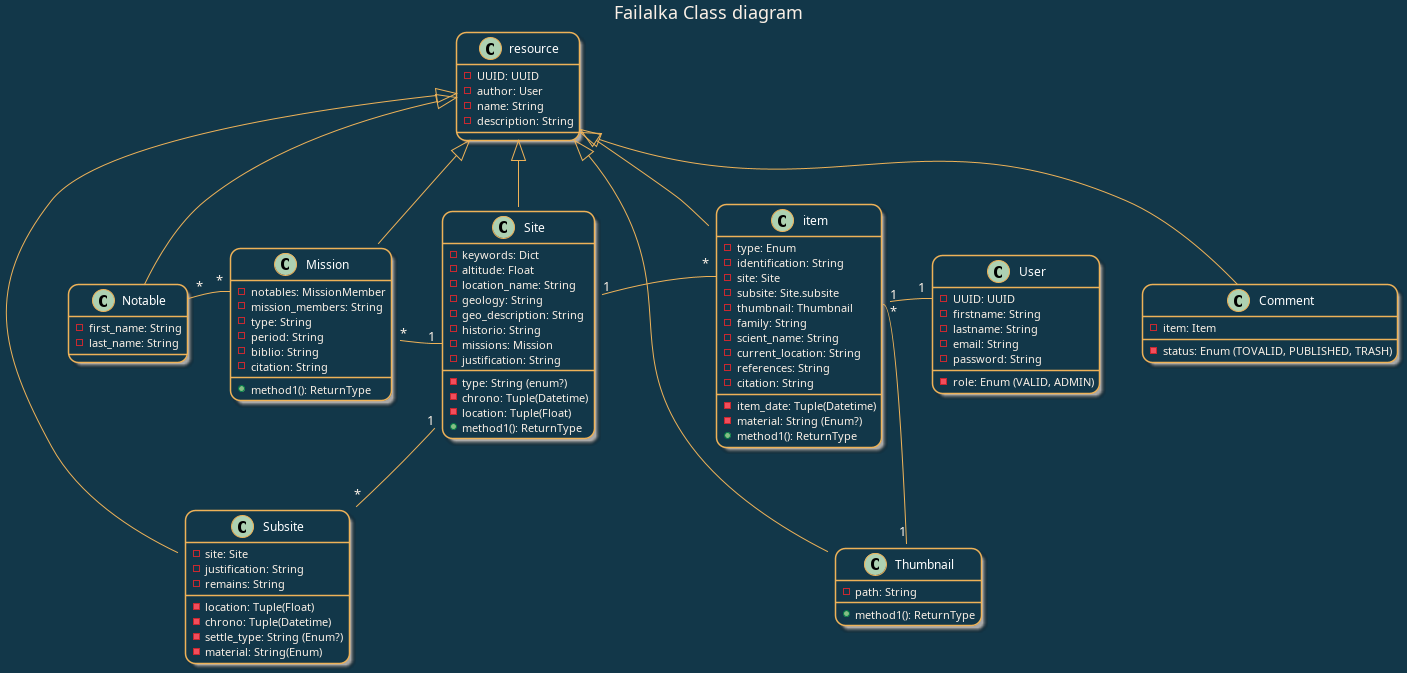
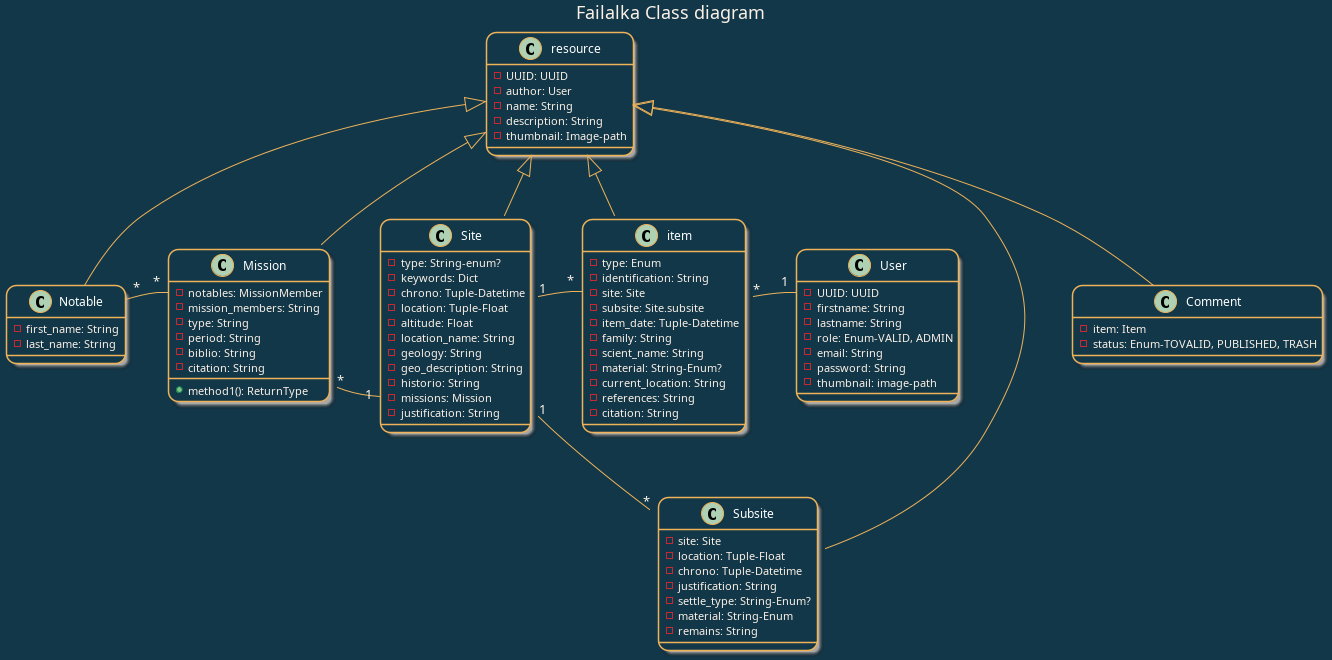
Update class diagram and development documentation; add thumbnail attribute and adjust data types

diff --git a/docs/source/class_diag.md b/docs/source/class_diag.md
@@ -22,6 +22,7 @@ class resource {
   - author: User
   - name: String
   - description: String
+  - thumbnail: Image-path
 }
 
 class item extends resource {
@@ -29,27 +30,20 @@ class item extends resource {
   - identification: String
   - site: Site
   - subsite: Site.subsite
-  - thumbnail: Thumbnail
-  - item_date: Tuple(Datetime)
+  - item_date: Tuple-Datetime
   - family: String
   - scient_name: String
-  - material: String (Enum?)
+  - material: String-Enum?
   - current_location: String
   - references: String
   - citation: String
-  + method1(): ReturnType
-}
-
-class Thumbnail extends resource {
-  - path: String
-  + method1(): ReturnType
 }
 
 class Site extends resource {
-  - type: String (enum?)
+  - type: String-enum?
   - keywords: Dict
-  - chrono: Tuple(Datetime)
-  - location: Tuple(Float)
+  - chrono: Tuple-Datetime
+  - location: Tuple-Float
   - altitude: Float
   - location_name: String
   - geology: String
@@ -57,16 +51,15 @@ class Site extends resource {
   - historio: String
   - missions: Mission
   - justification: String
-  + method1(): ReturnType
 }
 
 class Subsite extends resource {
   - site: Site
-  - location: Tuple(Float)
-  - chrono: Tuple(Datetime)
+  - location: Tuple-Float
+  - chrono: Tuple-Datetime
   - justification: String
-  - settle_type: String (Enum?)
-  - material: String(Enum)
+  - settle_type: String-Enum?
+  - material: String-Enum
   - remains: String
 }
 
@@ -89,25 +82,19 @@ class User {
   - UUID: UUID
   - firstname: String
   - lastname: String
-  - role: Enum (VALID, ADMIN)
+  - role: Enum-VALID, ADMIN
   - email: String
   - password: String
+  - thumbnail: image-path
 }
 
 class Comment extends resource {
   - item: Item
-  - status: Enum (TOVALID, PUBLISHED, TRASH)
+  - status: Enum-TOVALID, PUBLISHED, TRASH
 }
 
-item::thumbnail "1" -r- "1" Thumbnail::UUID
 item::author "*" -r- "1" User::UUID
 item::site "*" -l- "1" Site::UUID
-User -d[hidden]- Thumbnail
-together {
-  class User
-  class Thumbnail
-  User-[hidden]-Thumbnail
-}
 Site::subsites "1" -- "*" Subsite::UUID
 Site::missions "1" -l- "*" Mission::UUID
 Mission::notables "*" -l- "*" Notable

diff --git a/docs/source/development.rst b/docs/source/development.rst
@@ -54,11 +54,13 @@ Class tables
        | role: Enum (VALID, ADMIN)
        | email: String
        | password: String
+       | thumbnail: image
    * - resource
      - | UUID: UUID
        | author: User
        | name: String
        | description: String
+       | thumbnail: image
    * - item (extends resource)
      - | UUID: UUID
        | author: User
@@ -68,7 +70,6 @@ Class tables
        | identification: String
        | site: Site
        | subsite: Site.subsite
-       | thumbnail: Thumbnail
        | item_date: Tuple(Datetime)
        | family: String
        | scient_name: String
@@ -106,13 +107,6 @@ Class tables
        | settle_type: String (Enum?)
        | material: String(Enum)
        | remains: String
-   * - Thumbnail (extends resource)
-     - | UUID: UUID
-       | author: User
-       | name: String
-       | description: String
-       | path: String
-       | method1(): ReturnType
    * - Mission (extends resource)
      - | UUID: UUID
        | author: User
@@ -180,7 +174,6 @@ Permissions
    * - | Resource
        | (Item, Site,
        | subsite,
-       | thumbnail,
        | mission,
        | notable)
      - | User
